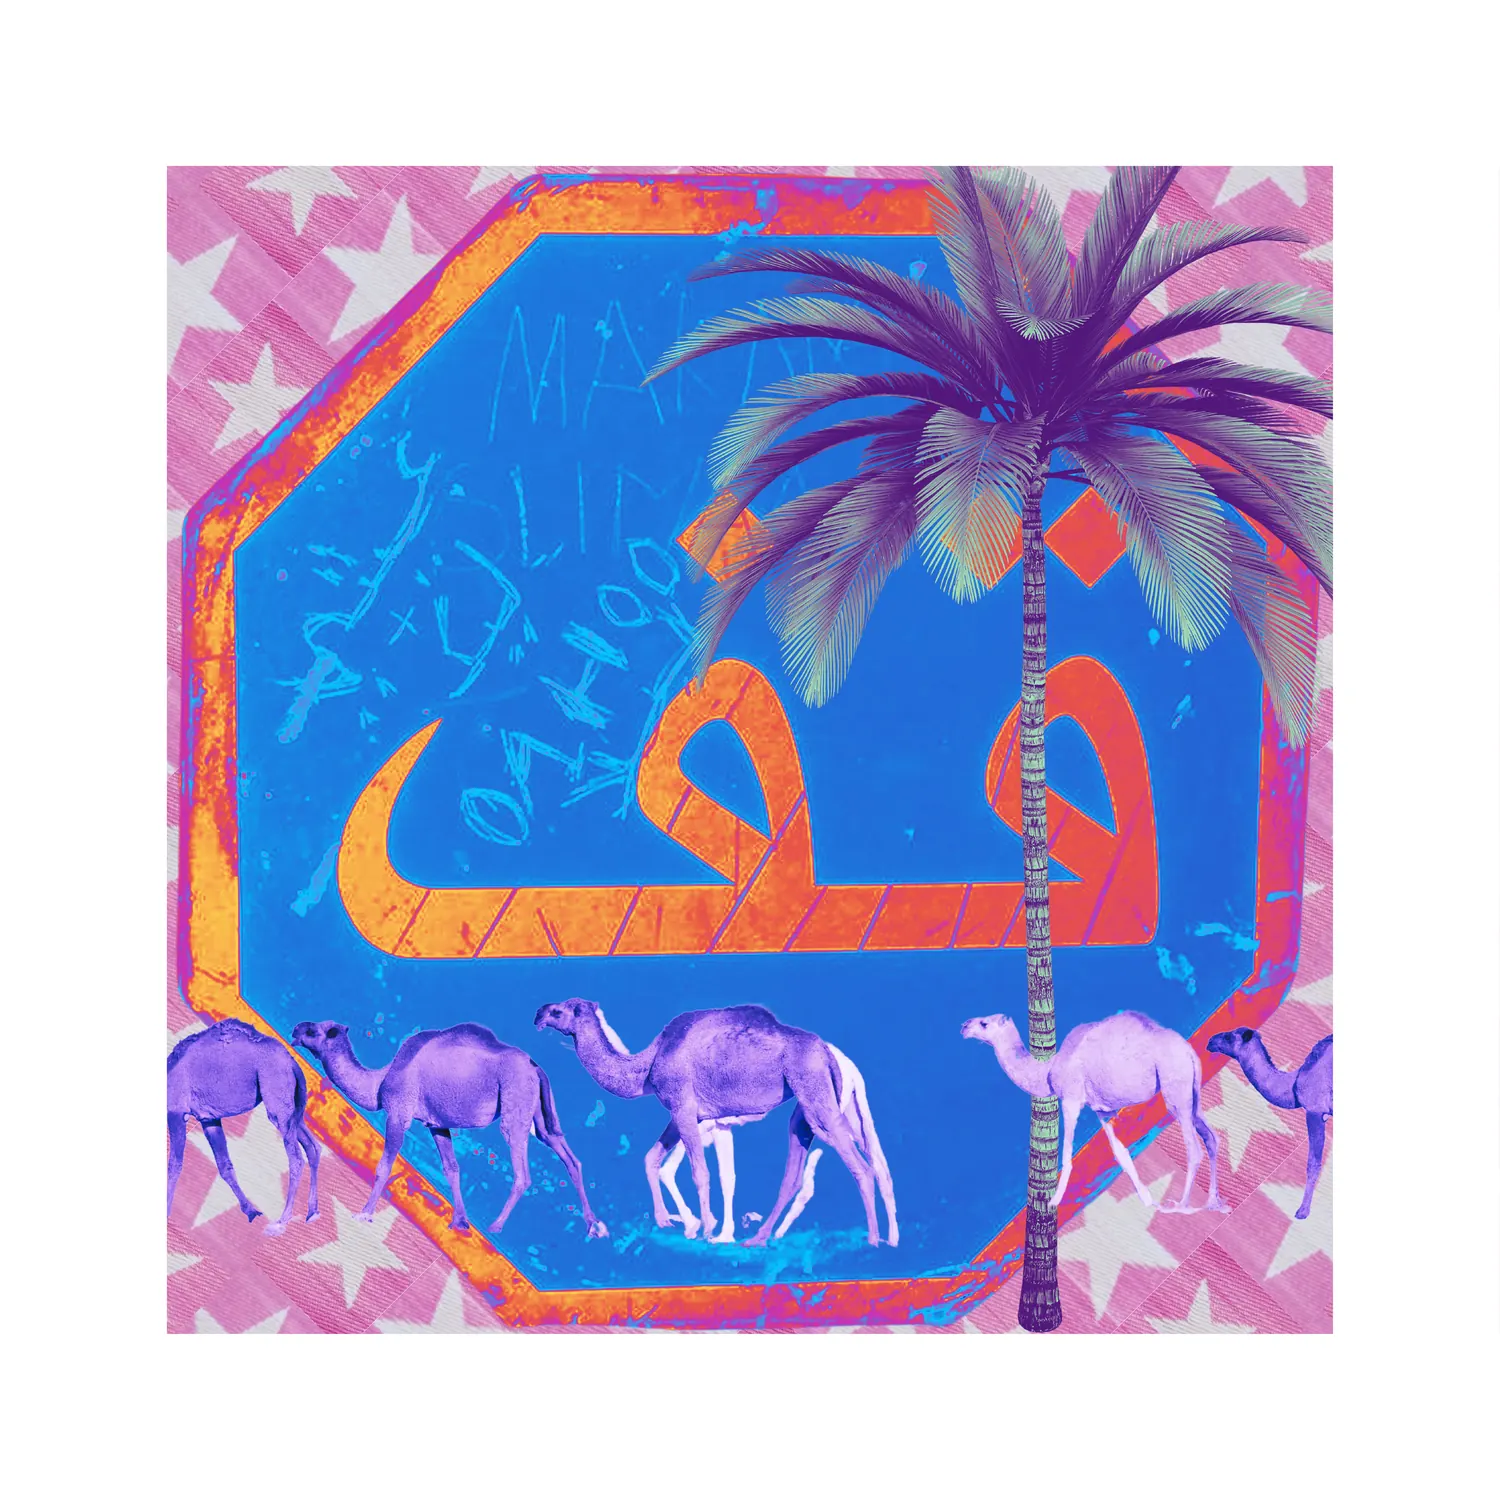
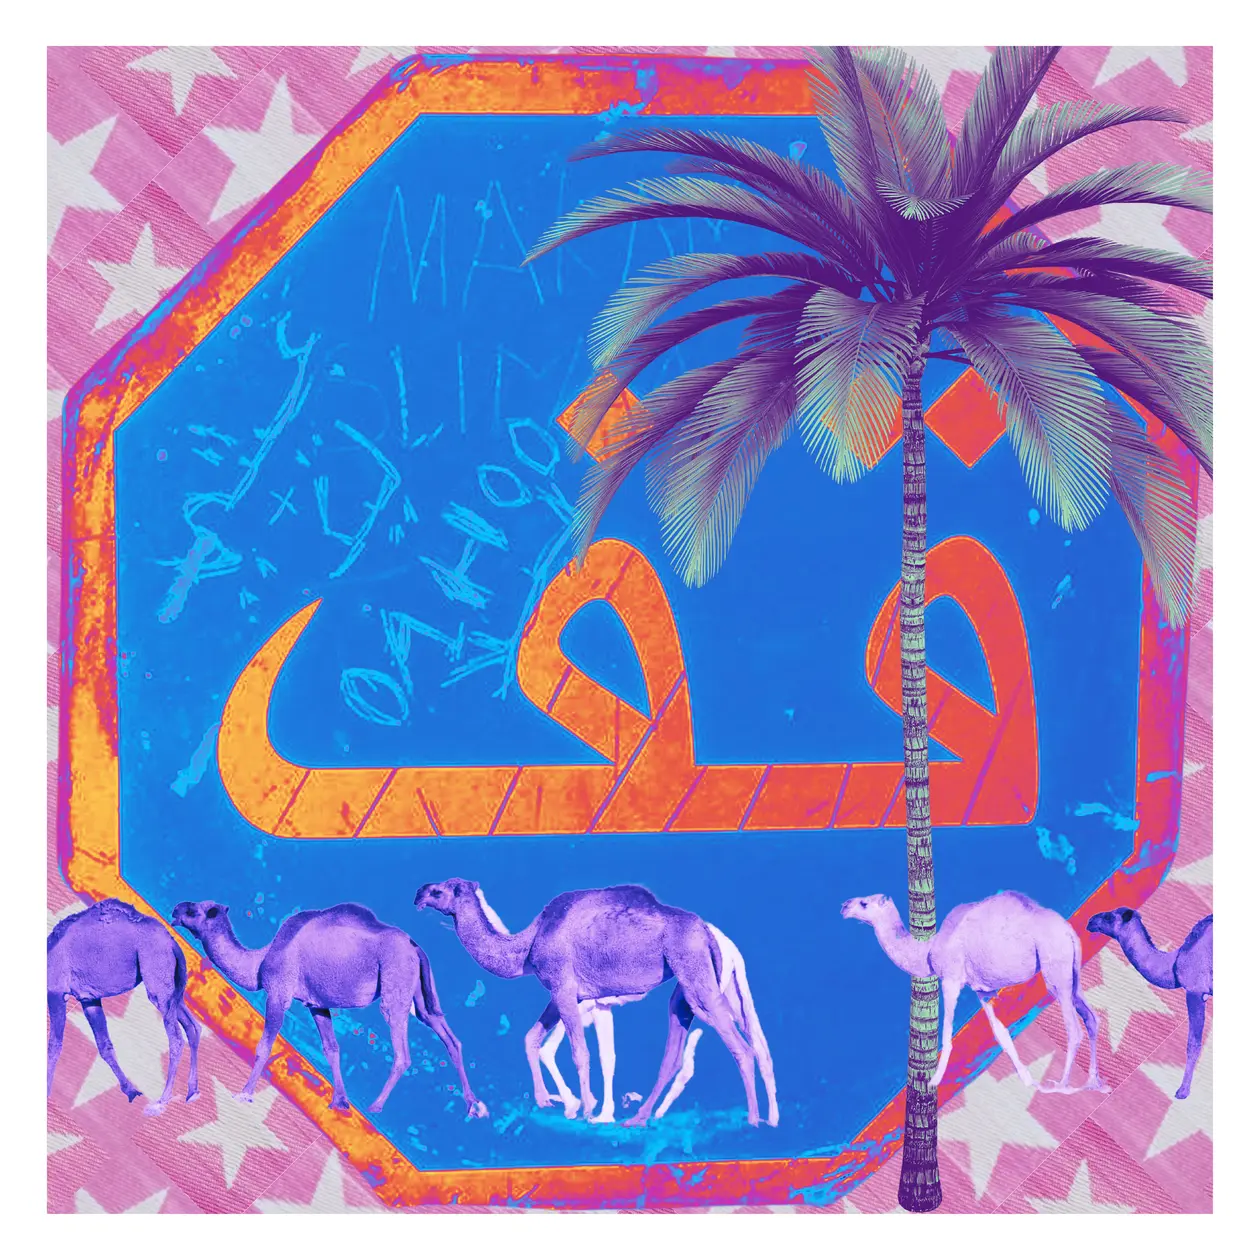
eden: make Qif & Qif in the Oasis round, hide table-edge guide lines
- Qif and Qif in the Oasis are round tables -> display round
- Re-crop round pieces just inside their drawn table-edge so the white/
  black guide line no longer shows as a ring (Al Kass Hlou white ring,
  Poppy Hobb black ring); Qif in the Oasis cropped to fill

Claude-Session: https://claude.ai/code/session_01BUbMbFhK7hbmxVKB26i5cL

diff --git a/eden-and-beyond/collection.html b/eden-and-beyond/collection.html
@@ -143,12 +143,12 @@
       <div class="art__cap"><span class="art__title">Babouche</span>
       <span class="art__meta">Limited-edition table</span></div>
     </a>
-    <a class="art reveal" href="https://wa.me/66923651604?text=Hi%20Eden%20%26%20Beyond%2C%20I%20would%20like%20to%20enquire%20about%20%22Qif%22%20from%20your%20collection." id="qif">
+    <a class="art art--round reveal" href="https://wa.me/66923651604?text=Hi%20Eden%20%26%20Beyond%2C%20I%20would%20like%20to%20enquire%20about%20%22Qif%22%20from%20your%20collection." id="qif">
       <div class="art__media"><img src="assets/img/qif-stop-sign.webp" alt="Qif — Limited-edition table, Eden &amp; Beyond" loading="lazy"></div>
       <div class="art__cap"><span class="art__title">Qif</span>
       <span class="art__meta">Limited-edition table</span></div>
     </a>
-    <a class="art reveal" href="qif-in-the-oasis.html" id="qif-in-the-oasis">
+    <a class="art art--round reveal" href="qif-in-the-oasis.html" id="qif-in-the-oasis">
       <div class="art__media"><img src="assets/img/desert-caravan-neon.webp" alt="Qif in the Oasis — Limited-edition table, Eden &amp; Beyond" loading="lazy"></div>
       <div class="art__cap"><span class="art__title">Qif in the Oasis</span>
       <span class="art__meta">Limited-edition table</span></div>

diff --git a/eden-and-beyond/qif-in-the-oasis.html b/eden-and-beyond/qif-in-the-oasis.html
@@ -68,7 +68,7 @@
 <nav class="wrap breadcrumb" aria-label="Breadcrumb"><ol><li><a href="index.html">Home</a></li><li class="sep" aria-hidden="true">›</li><li><a href="collection.html">Collection</a></li><li class="sep" aria-hidden="true">›</li><li aria-current="page">Qif in the Oasis</li></ol></nav>
 <section class="section" style="padding-top:1.4rem;"><div class="wrap">
   <div class="piece">
-    <div class="piece__media reveal"><img src="assets/img/desert-caravan-neon.webp" alt="Qif in the Oasis — Limited-edition table, Eden &amp; Beyond by Maija" fetchpriority="high"></div>
+    <div class="piece__media piece__media--round reveal"><img src="assets/img/desert-caravan-neon.webp" alt="Qif in the Oasis — Limited-edition table, Eden &amp; Beyond by Maija" fetchpriority="high"></div>
     <div class="piece__body reveal" data-delay="1">
       <span class="eyebrow eyebrow--red">Limited-edition table</span>
       <h1>Qif in the Oasis</h1>

diff --git a/eden-and-beyond/build/build.py b/eden-and-beyond/build/build.py
@@ -668,8 +668,8 @@ COLLECTION = [
         ("al-kass-hlou",        "Al Kass Hlou",          "Limited-edition table", "art--round", "ph--sun",      "teapot-camel"),
         ("flash",               "Flash",                 "Limited-edition table", "",           "ph--electric", "wondermint-camel"),
         ("babouche",            "Babouche",              "Limited-edition table", "",           "ph--magenta",  "babouche-mandala"),
-        ("qif",                 "Qif",                   "Limited-edition table", "",           "ph--electric", "qif-stop-sign"),
-        ("qif-in-the-oasis",    "Qif in the Oasis",      "Limited-edition table", "",           "ph--magenta",  "desert-caravan-neon"),
+        ("qif",                 "Qif",                   "Limited-edition table", "art--round", "ph--electric", "qif-stop-sign"),
+        ("qif-in-the-oasis",    "Qif in the Oasis",      "Limited-edition table", "art--round", "ph--magenta",  "desert-caravan-neon"),
         ("taxi-superlux",       "Taxi Superlux",         "Limited-edition table", "",           "ph--electric", "taxi-superlux"),
         ("poppy-hobb",          "Poppy Hobb",            "Limited-edition table", "art--round", "ph--poppy",    "poppy-queen"),
         ("mouna-lisa",          "Mouna Lisa",            "Limited-edition table", "art--round", "ph--teal",     "mona-lisa-fez"),
@@ -727,7 +727,7 @@ What seems controlled starts to move. What looks playful becomes obsessive.
 This is where order turns into trance — where beauty loops until it takes over.
 
 Not decoration. A frequency."""),
-    "qif-in-the-oasis": dict(title="Qif in the Oasis", kicker="Limited-edition table", img="desert-caravan-neon", shape="",
+    "qif-in-the-oasis": dict(title="Qif in the Oasis", kicker="Limited-edition table", img="desert-caravan-neon", shape="round",
         lead="Follow the line. And then — stop.", text="""Follow the line.
 And then — stop.
 
